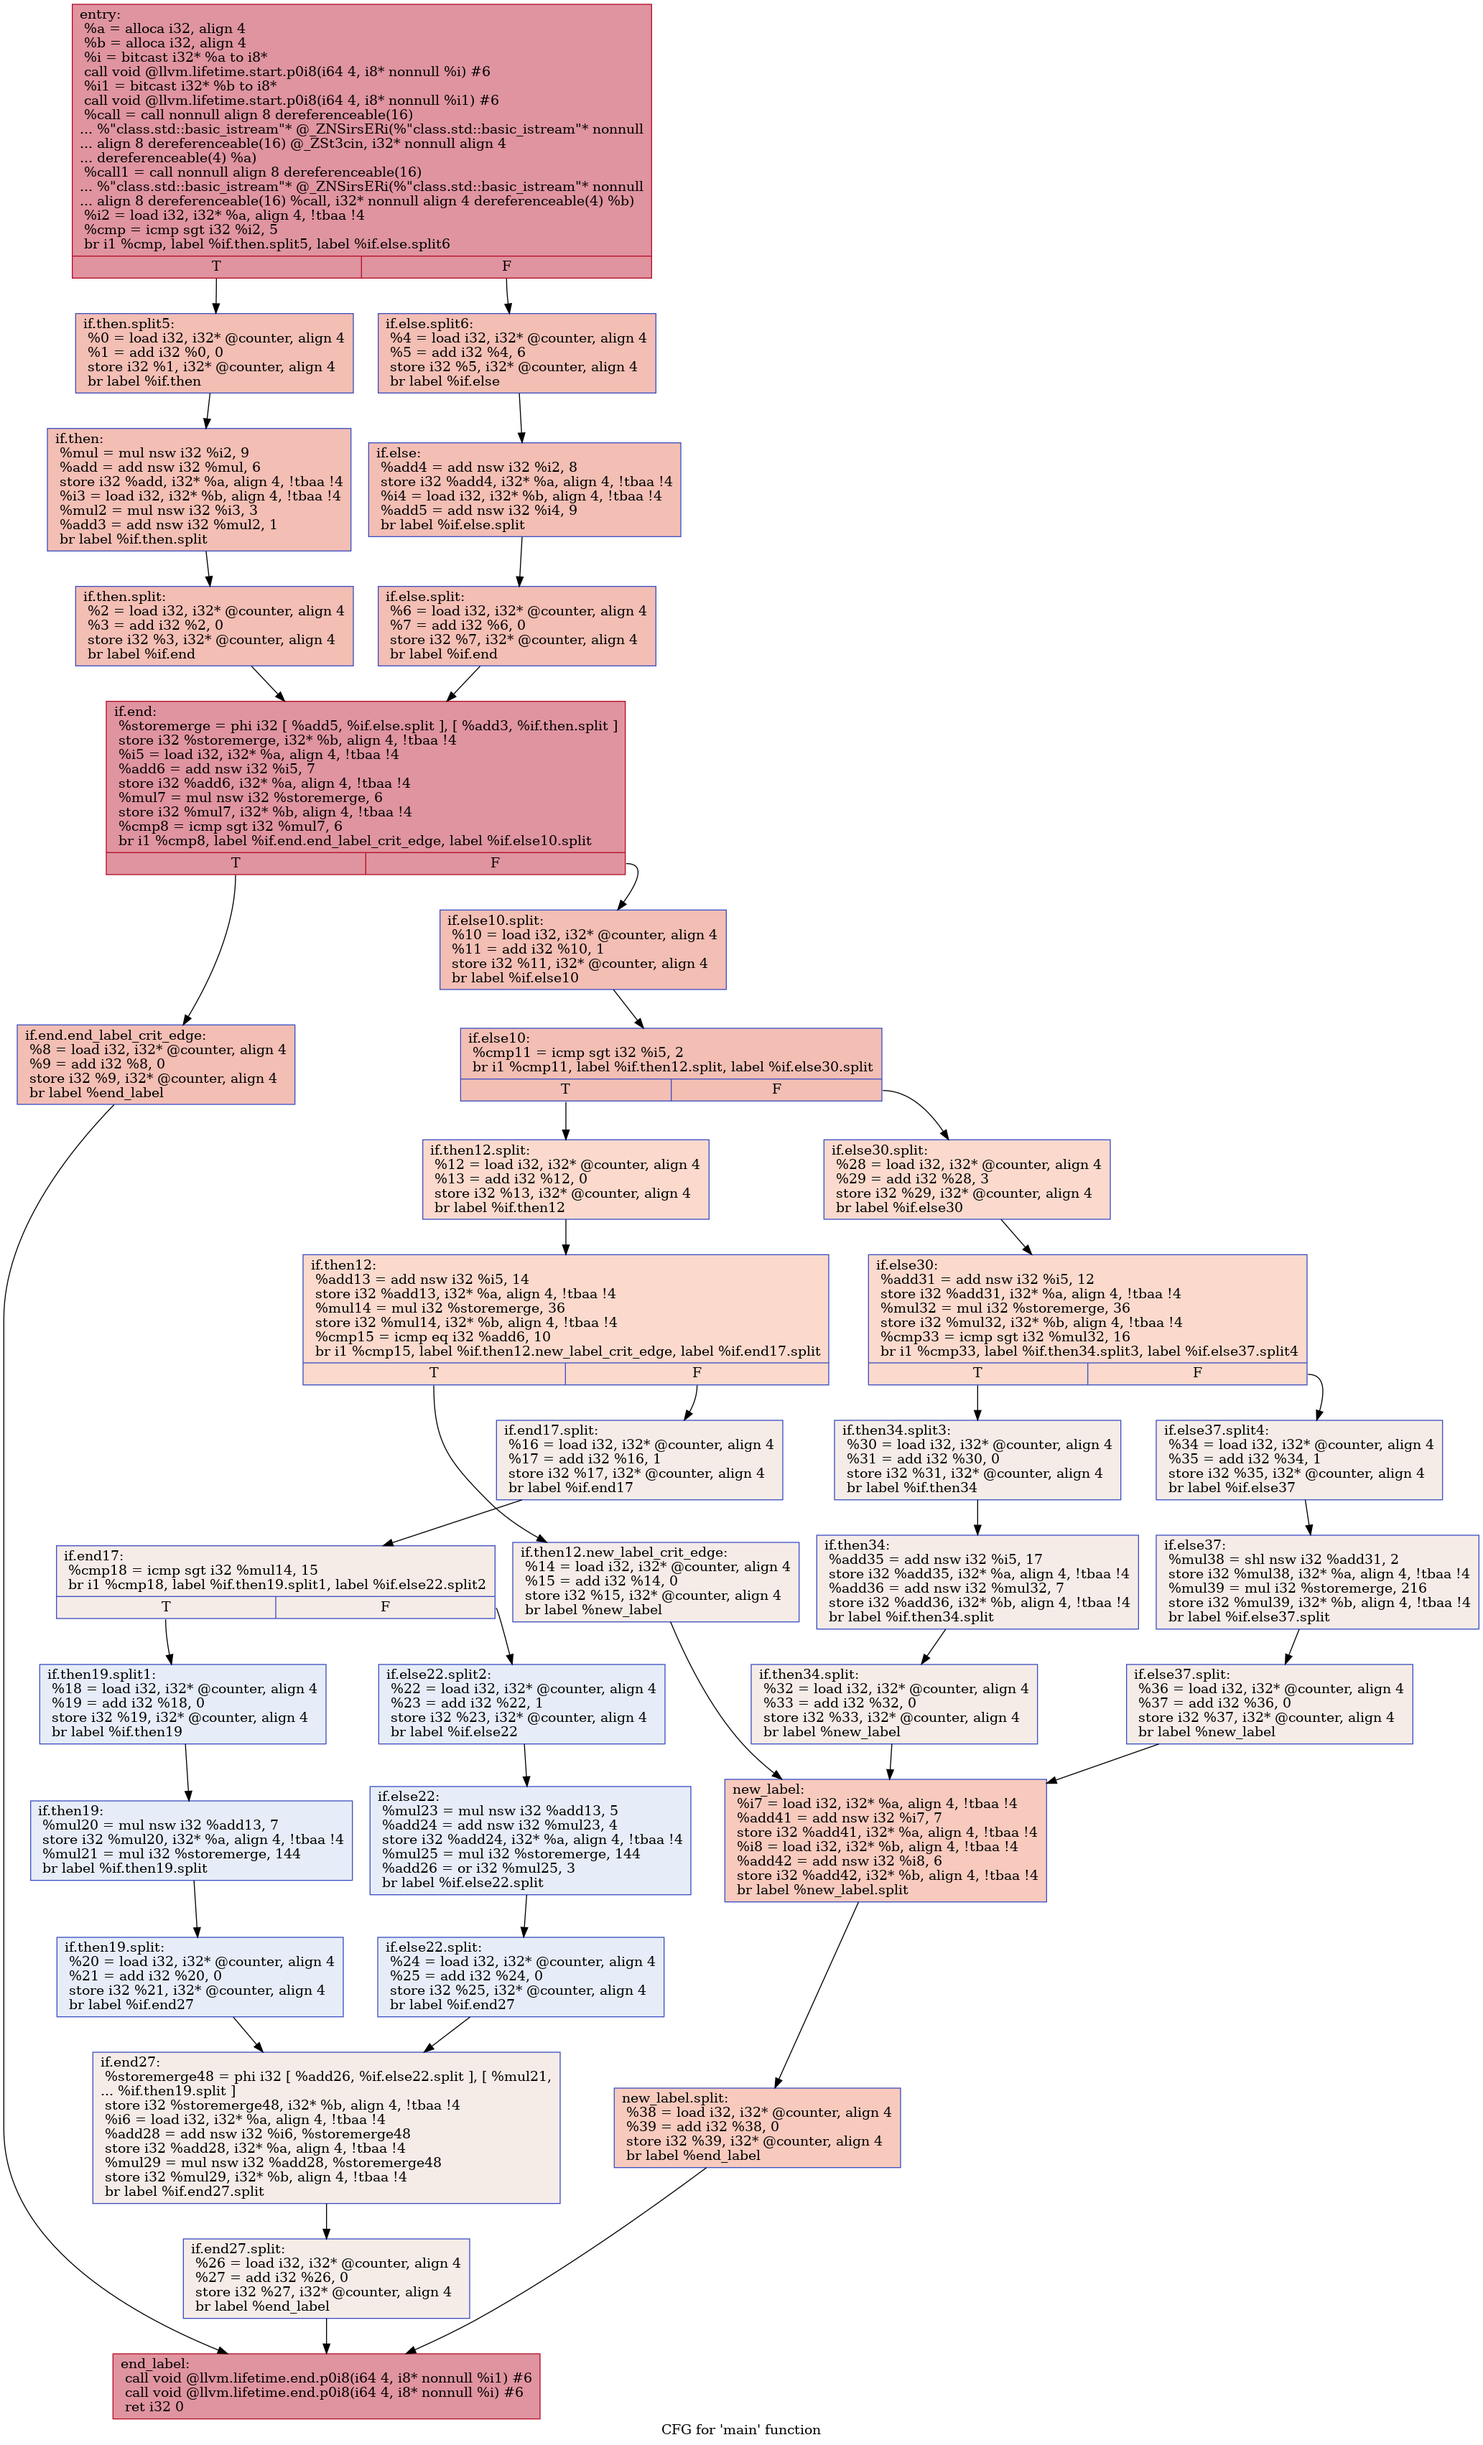
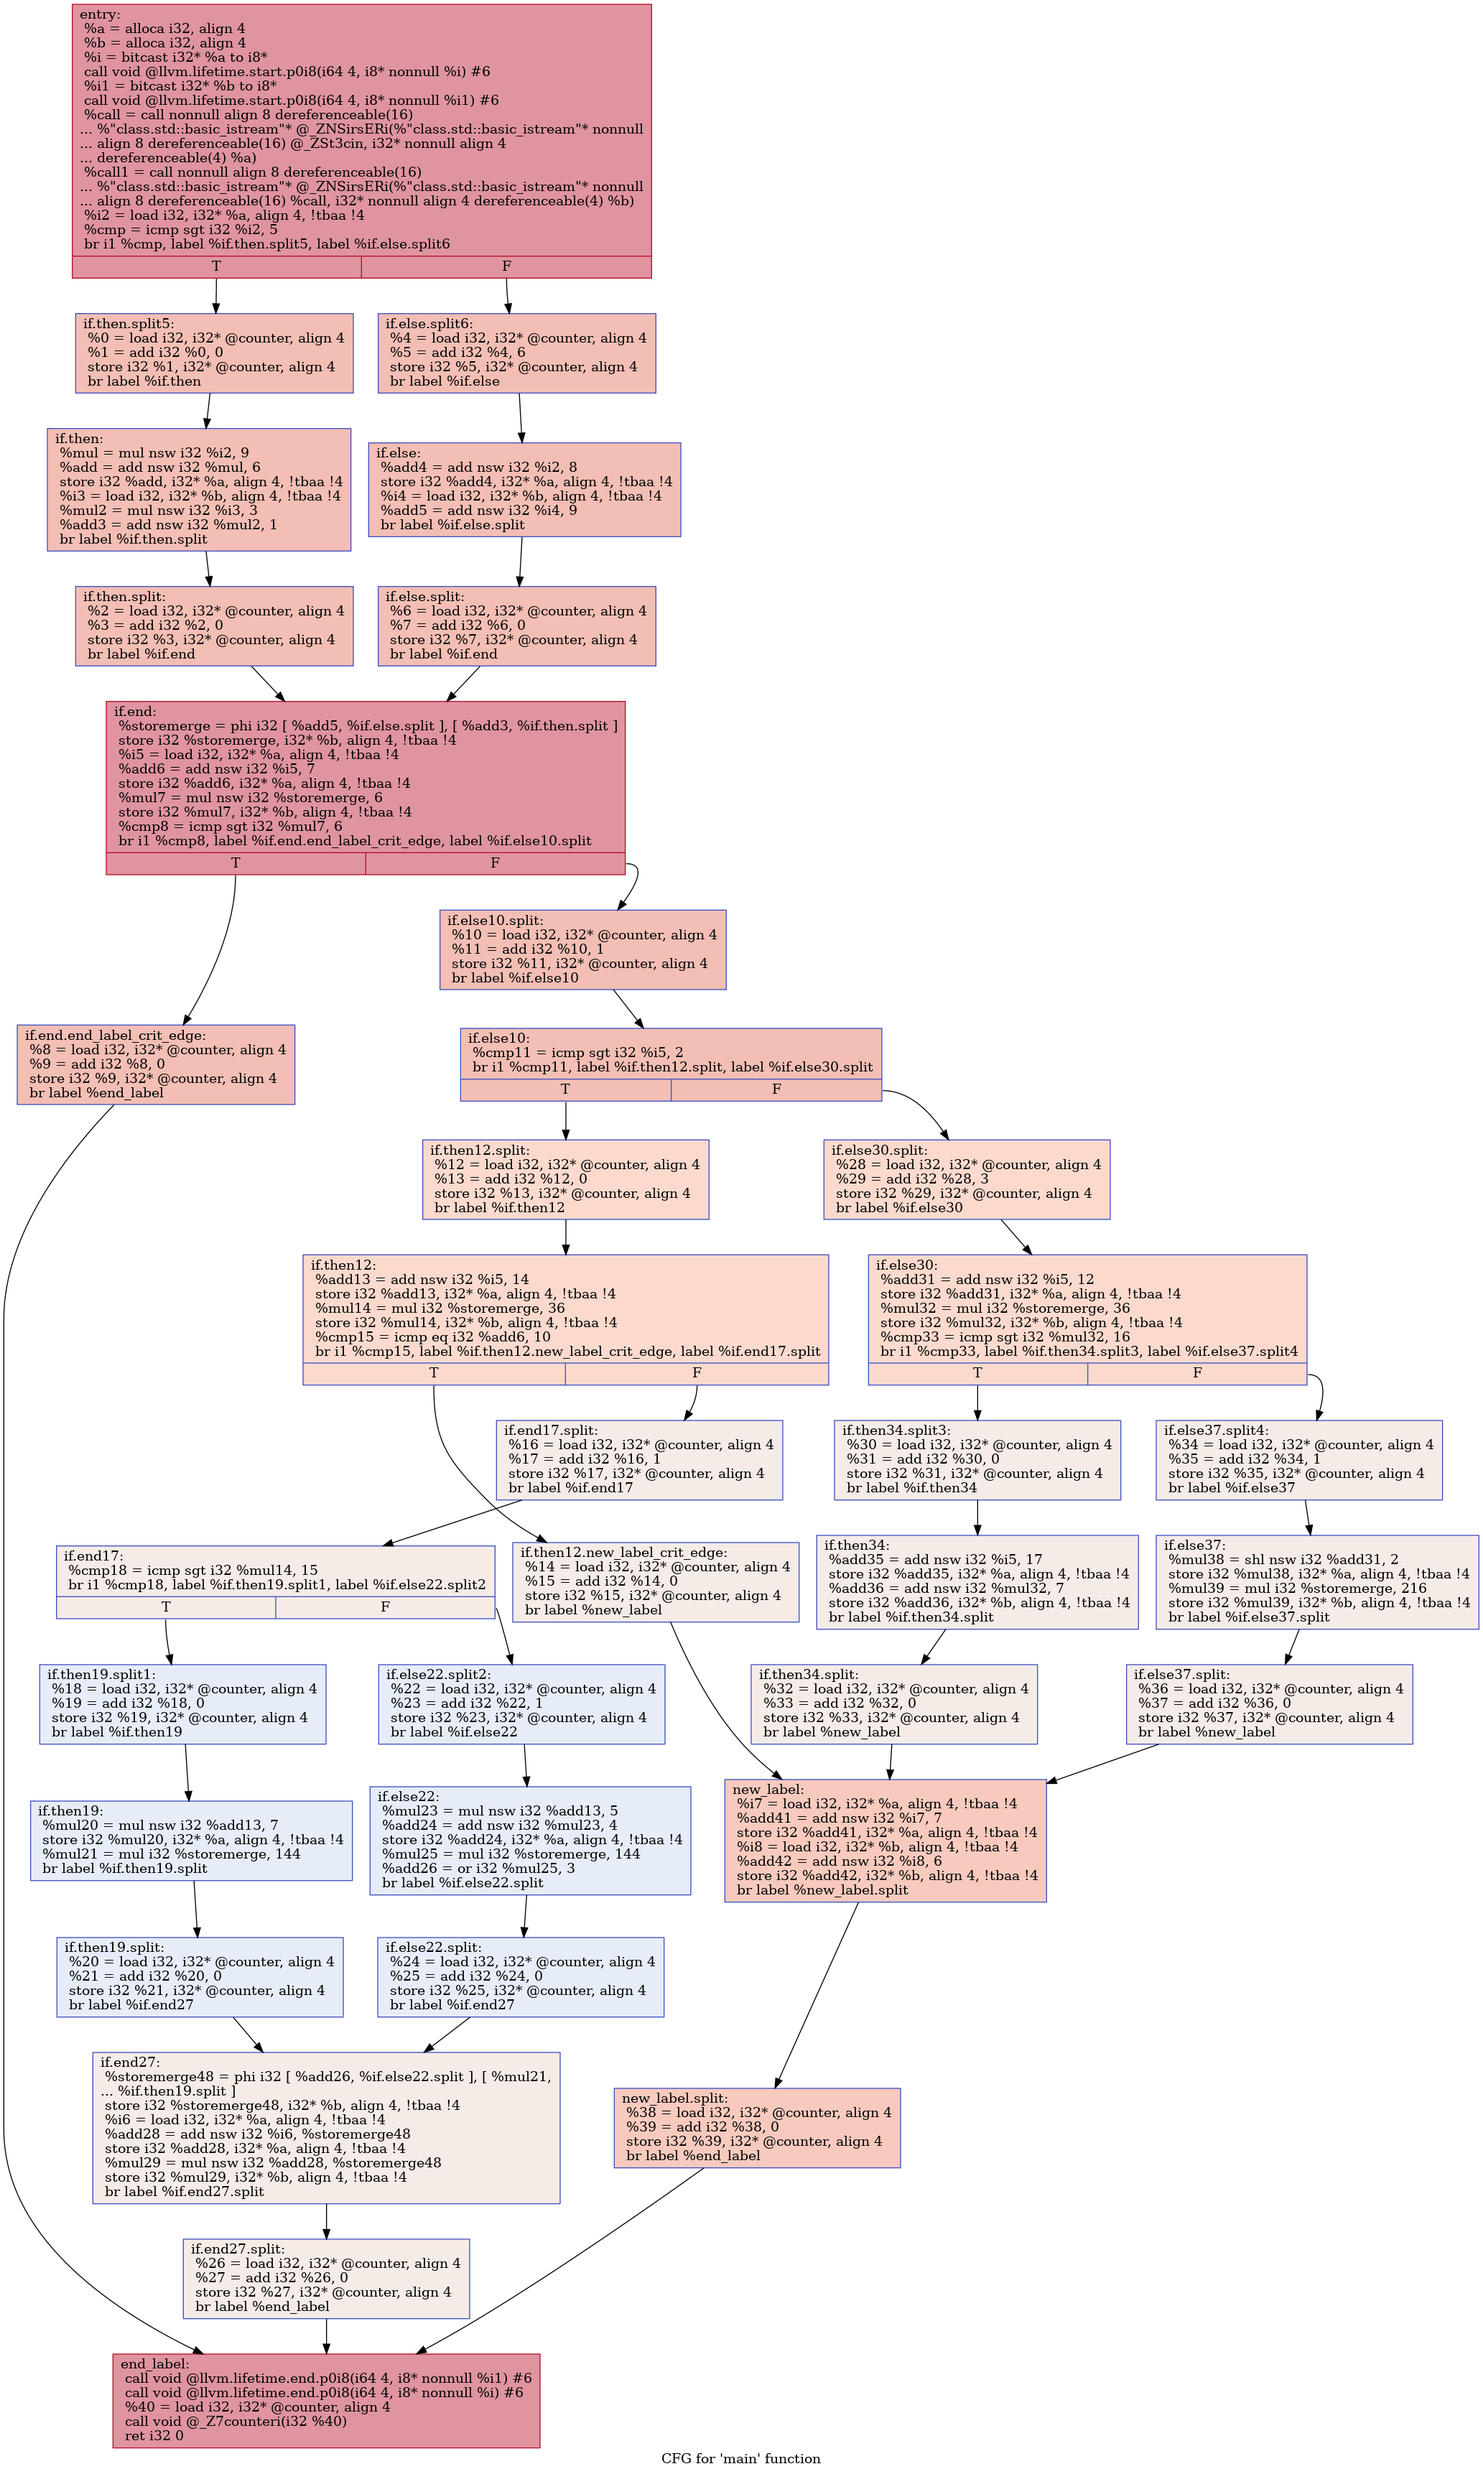
Get final register value after one run of program

Changed region(s): [[0.0, 0.0, 0.9918, 0.9962], [0.0, 0.4047, 0.186, 0.467]]

diff --git a/BallLarusProfiler/BallLarusProfiler.cpp b/BallLarusProfiler/BallLarusProfiler.cpp
@@ -23,8 +23,12 @@ PreservedAnalyses BallLarusProfilerPass::run(Module &M,
     GlobalVariable *gVar = M.getNamedGlobal(counterName);
     gVar->setInitializer(ConstantInt::get(Type::getInt32Ty(M.getContext()),
                                           0)); // initialize r to 0
-    // gVar->setLinkage(GlobalValue::CommonLinkage);
-    // gVar->setAlignment(4);
+    // Printf function
+    vector<Type *> Params{Type::getInt32Ty(M.getContext())};
+    FunctionType *fccType =
+        FunctionType::get(Type::getVoidTy(M.getContext()), Params, false);
+    Function *sampleFun = Function::Create(
+        fccType, GlobalValue::ExternalLinkage, "_Z7counteri", &M);
 
     map<BasicBlock *, int32_t> NumPaths;
 
@@ -33,6 +37,13 @@ PreservedAnalyses BallLarusProfilerPass::run(Module &M,
       BasicBlock *BB = *it;
       if (succ_empty(BB)) { // Leaf Node
         NumPaths[BB] = 1;
+        std::vector<Value *> Args;
+        Builder.SetInsertPoint(BB->getTerminator());
+        Value *load =
+            Builder.CreateLoad(Type::getInt32Ty(BB->getContext()), gVar);
+        Args.push_back(load);
+        // inserting in the end of the basic block
+        CallInst::Create(sampleFun, Args, "", BB->getTerminator());
       } else {
         NumPaths[BB] = 0;
         for (auto Succ : successors(BB)) {
@@ -41,12 +52,11 @@ PreservedAnalyses BallLarusProfilerPass::run(Module &M,
               Succ); // ! Will this cast cause error in future?
           BasicBlock *instrument = SplitEdge(from, to);
           Builder.SetInsertPoint(instrument->getTerminator());
-          Value *load = Builder.CreateLoad(Type::getInt32Ty(instrument->getContext()),gVar);
-          // Value *second =
-          //     ConstantInt::get(Type::getInt32Ty(instrument->getContext()), NumPaths[BB]);
+          Value *load = Builder.CreateLoad(
+              Type::getInt32Ty(instrument->getContext()), gVar);
           Value *newInst =
-            Builder.CreateAdd(load, Builder.getInt32(NumPaths[BB]));
-          Value* store = Builder.CreateStore(newInst, gVar);
+              Builder.CreateAdd(load, Builder.getInt32(NumPaths[BB]));
+          Value *store = Builder.CreateStore(newInst, gVar);
           NumPaths[BB] = NumPaths[BB] + NumPaths[Succ];
         }
       }

diff --git a/BallLarusProfiler/pathProfiler.cpp b/BallLarusProfiler/pathProfiler.cpp
@@ -1,0 +1,19 @@
+#include <iostream>
+using namespace std;
+
+bool flag = 1;
+void counter(int n) {
+  FILE *pathData = fopen("pathData.txt", "a");
+  fprintf(pathData, "%d\n", n);
+  fclose(pathData);
+}
+
+/**
+ * Read pathData.txt
+ * Create a map with hash of path as key -> count of path
+ * Hash is calculated one by one, passing .....
+ * Create another map hash of path --> sequence of basic block
+ * Use both maps
+ * Optionally read bbMap.txt : output name directly
+ *        HPSSA.cpp -> directly
+ */

diff --git a/BallLarusProfiler/headers/BallLarusProfiler.h b/BallLarusProfiler/headers/BallLarusProfiler.h
@@ -15,6 +15,7 @@
 #include "llvm/Passes/PassPlugin.h"
 #include "llvm/Support/raw_ostream.h"
 #include "llvm/Transforms/Utils/BasicBlockUtils.h"
+#include "llvm/IR/BasicBlock.h"
 #include <bits/stdc++.h>
 using namespace std;
 namespace llvm {
